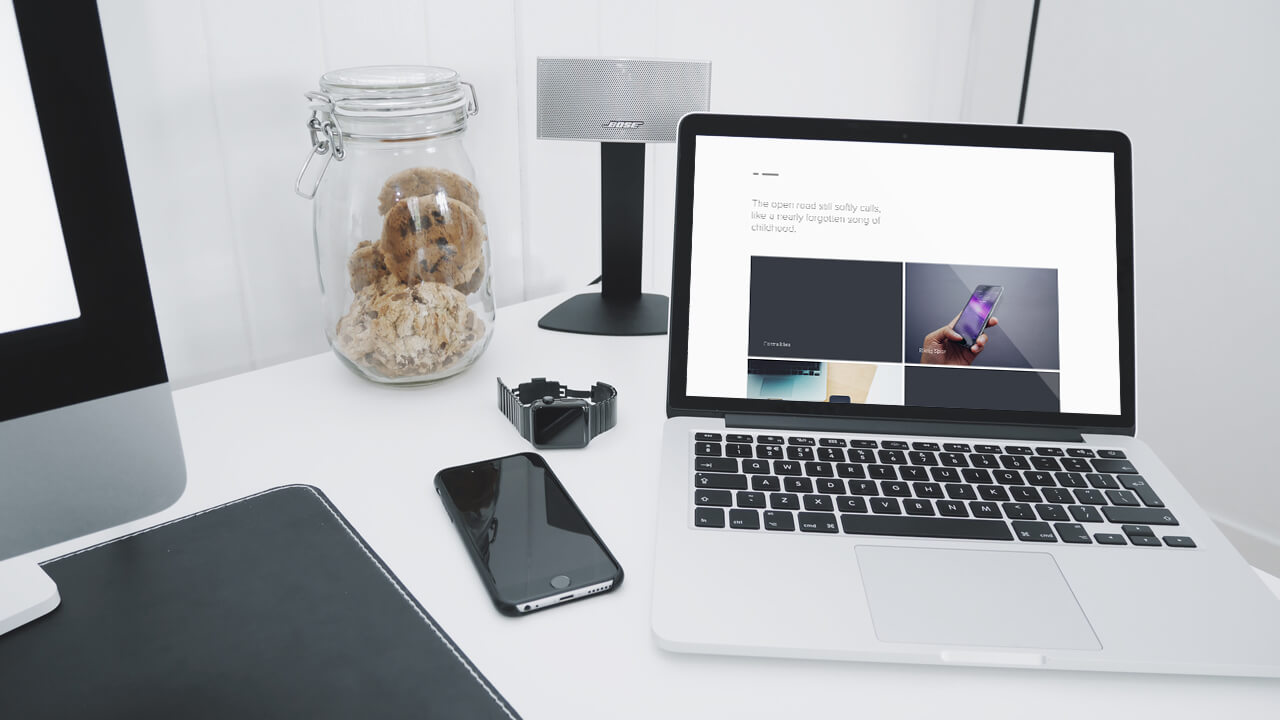
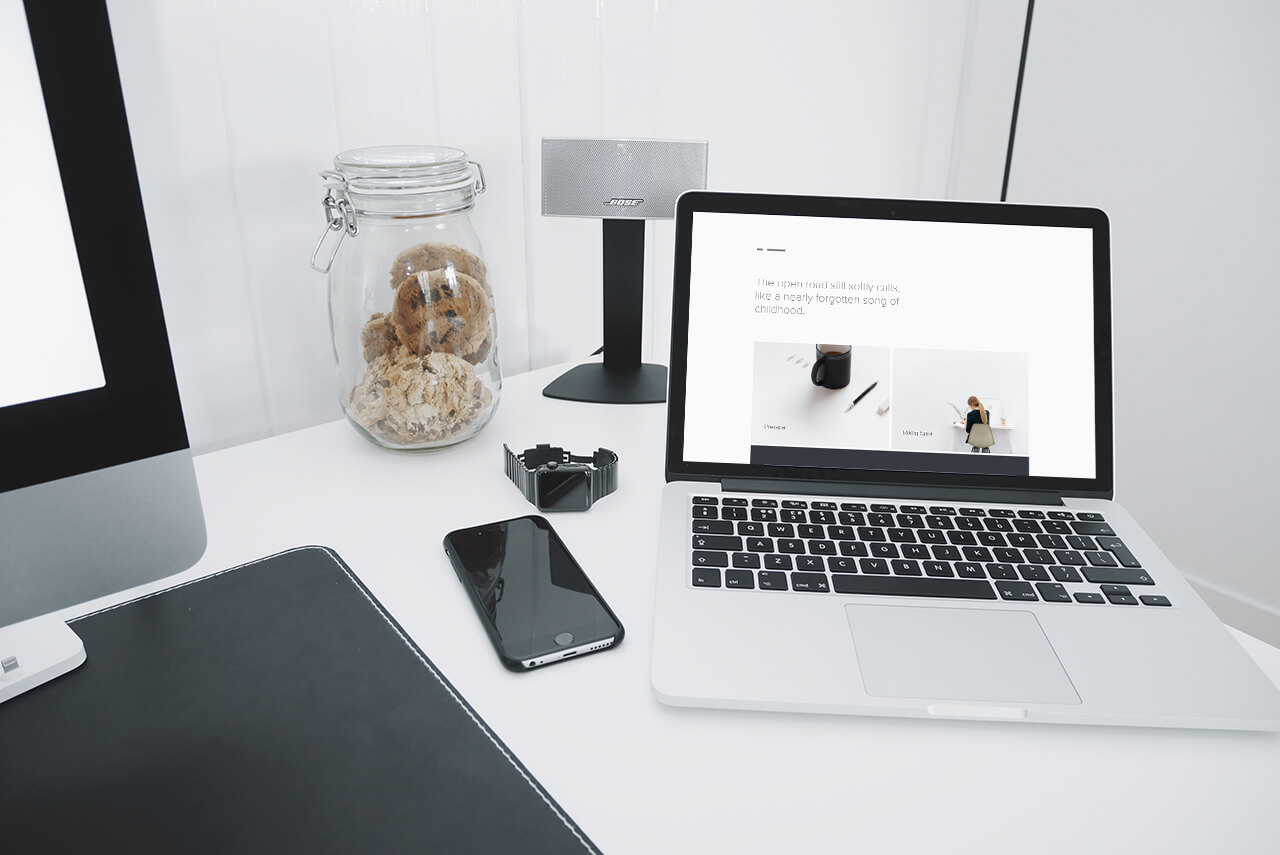
updated images in portfolio section

diff --git a/_site/portfolio/index.html b/_site/portfolio/index.html
@@ -1,1 +1,1 @@
-<!DOCTYPE html> <html lang="en" prefix="og: http://ogp.me/ns#"> <head> <meta charset="UTF-8"> <title>Portfolio</title> <meta name="description" content="The thoughts and work of Magnus Skare." /> <meta content="website" property="og:type" /> <meta content="Portfolio" property="og:site_name"> <meta content="/portfolio/" property="og:url"> <meta content="/img/show/3.jpg" property="og:image" /> <meta name="viewport" content="width=device-width, initial-scale=1" /> <link rel="shortcut icon" href="/img/assets/favicon.ico"> <link rel="canonical" href="/portfolio/" /> <script src="https://use.typekit.net/smz0fdf.js"></script> <script>try{Typekit.load({ async: true });}catch(e){}</script> <link rel="stylesheet" href="/css/main.css" /> <!-- Include analytics here --> </head> <body> <svg display=none width=0 height=0> <defs> <symbol id="icon-chevron-thin-right" viewBox="0 0 1024 1024"> <path class="path1" d="M678.4 512l-365.619-379.904c-13.722-13.824-13.722-36.198 0-50.125 13.722-13.824 35.891-13.824 49.613 0l400.896 404.89c13.722 13.875 13.722 36.301 0 50.125l-400.896 404.89c-13.722 13.875-35.891 13.824-49.613 0-13.722-13.773-13.722-36.198 0-50.125l365.619-379.75z"></path> </symbol> <symbol id="icon-chevron-thin-left" viewBox="0 0 1024 1024"> <path class="path1" d="M711.219 891.802c13.722 13.926 13.722 36.301 0 50.125s-35.891 13.875-49.613 0l-400.896-404.89c-13.722-13.824-13.722-36.198 0-50.125l400.896-404.89c13.722-13.824 35.891-13.824 49.613 0 13.722 13.875 13.722 36.301 0 50.125l-365.619 379.853 365.619 379.802z"></path> </symbol> </defs> </svg> <div class="wrapper"> <nav class="nav"> <ul class="nav-list" > <li class="nav-icon"> <a class="shift" href="/">Magnus Skare</a> </li> </ul> </nav> <header class="page-header"> <h1 class="page-header-text up">Portfolio</h1> <h2 class="page-header-subtext up wait"> 6 min read</h2> </header> <article class=" article"> <img src="../img/portfolio/img1.jpg" alt="Portfolio" class="fade wait"> <div class="div"></div> <p class="lead pull"><a href="http://magnusskare.science/uni-website/" target="_blank">Last semester</a> I thought I had a love&ndash;hate relationship with designing things for myself. This semester, I can confirm it, but I can also confirm the importance of "good enough" and releasing a minimum viable product (MVP).<span>In product development, the MVP is the product with the highest return on investment versus risk.</span></p> <p>I should mention the feedback from my previous two years in order to justify where we stand today. My <a href="https://magnuss.carbonmade.com/" target="_blank">first university portfolio</a> was too brief, with lacking depth and a solid foundation.</p> <p>My <a href="http://magnusskare.science/uni/" target="_blank">second university portfolio</a> took this into account, but perhaps too eagerly. I believe the exact feedback was “excellent, but impenetrable”. Justified, and my fear of seeming too shallow with my work disregarded the end user completely — and while it did not affect my final mark much, I hope to keep this in mind this time.</p> <div class="div"></div> <img class="browser" src="../img/portfolio/show.png" alt="Current portfolio version"> <div class="div"></div> <h2 id="problem--solution">Problem &amp; solution</h2> <p>Once again, a portfolio may come across as disjointed when you present a wider range of styles throughout your work. Therefore, I still aim to present a rather blank canvas to work on as a primary solution to this, giving every project the attention it deserves without conflicting styles surrounding it. You should see the <a href="/workflow-and-sketchbook">workflow &amp; sketchbook</a>-section if you’re interested in how I work, solve problems and essentially get from A to B.</p> <p>Echoing my thoughts from last year, I still find typography to be the most important part of the web.</p> <div class="div"></div> <img src="../img/portfolio/img2.png" alt="Proxima Nova typeface" class="entry"> <div class="div"></div> <p>We source our typography from <a href="http://typekit.com" target="_blank">Typekit</a>, using different weights of Proxima Nova to satisfy our needs. It’s a popular typeface, ideal for multiple purposes like headings and paragraphs. Proxima Nova is clean, neautral and fit for a purpose where the images seek attention.</p> <p>The site offers roughly 60-80 characters per line, presenting a comfortable reading experience on most modern devices. I also found it important to not disable zoom or any other default behaviour, as my research on reading-experience may not apply to everybody.</p> <div class="div"></div> <img class="browser" src="../img/portfolio/11.png" alt="Current portfolio version"> <div class="div"></div> <h2 id="speed--performance">Speed &amp; performance</h2> <p class="pull">I care about performance. In fact, I am writing my dissertation on performance and accessibility. That's why I built this site with Jekyll to avoid database requests completely.<span>Jekyll is a static site generator, and will by nature be faster than PHP-based solutions</span></p> <p>Jekyll is a static site generator and will serve static HTML-files for the end user. The site is generated locally, so we can still benefit from PHP-like includes for our footer and header — this means we avoid the pain of writing static HTML over and over again. It also makes updates easier.</p> <p>Everything else goes without saying, but should be mentioned anyway: asset compression (JS, CSS, HTML), image compression, limit HTTP requests and third party resources. This should leave us within a reasonable performance-budget of 2 second load time on our initial request and &gt;.5 seconds on second load.</p> <div class="div"></div> <img src="../img/portfolio/code.png" alt="Code editor"> <div class="div"></div> <h2 id="maintainability--technology">Maintainability &amp; technology</h2> <p class="pull">Without getting too technical, I can mention that the site is not very client-friendly. <a href="http://jekyllrb.com/" target="_blank">Jekyll</a> in itself runs on Ruby, which is installed via Node and NPM. That's already a bit too much for most clients.<span>View the code behind this site on <a href="https://github.com/partcoffee/uni" target="_blank">GitHub</a></span></p> <p>However, this is not a client website, and the lack of a content management system gives me more control as a developer. All my content is written in Markdown, which is a simple language and saves you hours of work in the long run, compared to writing HTML.</p> <p>I have made my life easier by listing projects in a data-folder, where a loop can access it and generate our homepage. I still code in <a href="http://sass-lang.com/" target="_blank">Sass</a> to benefit from variables and functions in CSS, but I moved on to <a href="http://gulpjs.com/" target="_blank">Gulp</a> to speed up my workflow. However, GitHub Pages will only support a naked Jekyll build, and thus this site may have been generated with the default generator.</p> <p>The source-code is <a href="https://github.com/partcoffee/uni" target="_blank">available on GitHub</a>, which will show the raw files I work with. You can also see how the code works in the <a href="https://github.com/partcoffee/uni/blob/master/css/main.scss" target="_blank">main scss-file</a>, which extends to all the <a href="https://github.com/partcoffee/uni/tree/master/_sass" target="_blank">included scss-files</a> and <a href="https://github.com/partcoffee/uni/blob/master/js/main.js" target="_blank">main JavaScript file</a>. If you are a developer, I strongly encourage you to clone to repo or read through it on GitHub. This gives me the option to refer to specific code samples and annotate them accordingly to satisfy the assessment sheet.</p> <div class="div"></div> <h2 id="alternative-approach">Alternative approach</h2> <p class="pull">This site was certainly not the plan all along, and I did have several different approaches in mind. I have been experimenting with cover-pages, one-page layouts and similar design propositions to this one. However, subjectively and based on colleague feedback, this seemed to be the best approach to highlight all my work in a structured and efficient manner. The blank canvas should give each project the attention it deserves, while simutanously giving me the freedom to be as brief or as thorough as I have to.<span>The <a href="/workflow-and-sketchbook">workflow &amp; sketchbook</a>-section highlights how I work</span></p> <p>An outside point of view was crucial for the process, as looking at the same homepage layout every day can get tedious and boring – tempting me to change the layout or colours based solely on boredom. A specific example was the use of solid colours over images, illustrated in the screenshot below, but the feedback for images was overwhelmingly posivitive in comparison.</p> <p>I have included some different approaches as screenshots, but live examples are available upon request. You can see more examples under <a href="/secondary">secondary work</a>. These are all fully responsive and should function well in all modern browsers.</p> <div class="div"></div> <img src="../img/portfolio/colour.png" alt="Previous portfolio version" class="free-height browser"> <img src="../img/portfolio/5.png" alt="Previous portfolio version"> <img src="../img/portfolio/6.png" alt="Previous portfolio version"> <!-- <img class="browser" src="../img/portfolio/1.png" alt="Previous portfolio version"> --> <!-- <img src="../img/portfolio/9.png" alt="Current portfolio version"> --> <div class="div"></div> <h2 id="reflection--conclusion">Reflection &amp; conclusion</h2> <p>I hopefully improved upon the <a href="http://magnusskare.science/uni/" target="_blank">previous university portfolio</a> by keeping user experience in mind from the very beginning. By developing a dedicated site for my university projects, I could tailor the site to a very specific group of people — and as I’m aware of their feedback from previous projects along with the assessment sheet, it was easy to know what to include and what to leave out.</p> <p>I hope this site is able to reflect the amount of work and effort I have put into this semester.</p> <div class="div"></div> <p class="mid"> <a href="/" class="button shift"> <svg class="icon icon-chevron-thin-left"> <use xlink:href="#icon-chevron-thin-left"></use> </svg> Back to home </a> </p> </article> <footer class="footer"> <ul class="footer-list"> <li class="footer-links"> <a href="https://twitter.com/MagnusSkare">Twitter</a> </li> <li class="footer-links"> <a href="https://dribbble.com/PartCoffee/">Dribbble</a> </li> <li class="footer-links"> <a href="https://github.com/partcoffee/">GithHub</a> </li> <li class="footer-links"> <a href="https://instagram.com/magnusskare/">Instagram</a> </li> <li class="footer-links"> <a href="/">Powered by coffee and love</a> </li> </ul> </footer> <script src="https://ajax.googleapis.com/ajax/libs/jquery/1/jquery.min.js"></script> <script src='/js/main.js'></script> <!--[if lt IE 9]> <style>#ie-upgrade{background:#FFF;bottom:0;display:table;height:100%;left:0;position:fixed;right:0;top:0;width:100%;z-index:9000;}#ie-only{margin-bottom: 0;}.ie-message{display:table-cell;text-align:center;vertical-align:middle;padding: 0 20%;}.ie-message p{max-width:500px;margin:20px auto 30px;}#ie-upgrade .button{background:#555;color:#FFF;padding:14px 28px 12px;}</style> <div id="ie-upgrade"> <div class="ie-message"> <h1>Hello Internet Explorer user</h1> <p>Your current Internet browser is being outphased, and is too old to display this page correctly. Please consider upgrading your browser, or downloading <a href="https://www.google.com/chrome/">a modern alternative</a>.</p> <a href="#" id="ie-only" class="button">Continue anyway</a> </div> </div> <script> $('#ie-only').on('click', function() { $('#ie-upgrade').css('display', 'none'); }); </script> <![endif]--> </div> </body> </html>
+<!DOCTYPE html> <html lang="en" prefix="og: http://ogp.me/ns#"> <head> <meta charset="UTF-8"> <title>Portfolio</title> <meta name="description" content="The thoughts and work of Magnus Skare." /> <meta content="website" property="og:type" /> <meta content="Portfolio" property="og:site_name"> <meta content="/portfolio/" property="og:url"> <meta content="/img/show/3.jpg" property="og:image" /> <meta name="viewport" content="width=device-width, initial-scale=1" /> <link rel="shortcut icon" href="/img/assets/favicon.ico"> <link rel="canonical" href="/portfolio/" /> <script src="https://use.typekit.net/smz0fdf.js"></script> <script>try{Typekit.load({ async: true });}catch(e){}</script> <link rel="stylesheet" href="/css/main.css" /> <!-- Include analytics here --> </head> <body> <svg display=none width=0 height=0> <defs> <symbol id="icon-chevron-thin-right" viewBox="0 0 1024 1024"> <path class="path1" d="M678.4 512l-365.619-379.904c-13.722-13.824-13.722-36.198 0-50.125 13.722-13.824 35.891-13.824 49.613 0l400.896 404.89c13.722 13.875 13.722 36.301 0 50.125l-400.896 404.89c-13.722 13.875-35.891 13.824-49.613 0-13.722-13.773-13.722-36.198 0-50.125l365.619-379.75z"></path> </symbol> <symbol id="icon-chevron-thin-left" viewBox="0 0 1024 1024"> <path class="path1" d="M711.219 891.802c13.722 13.926 13.722 36.301 0 50.125s-35.891 13.875-49.613 0l-400.896-404.89c-13.722-13.824-13.722-36.198 0-50.125l400.896-404.89c13.722-13.824 35.891-13.824 49.613 0 13.722 13.875 13.722 36.301 0 50.125l-365.619 379.853 365.619 379.802z"></path> </symbol> </defs> </svg> <div class="wrapper"> <nav class="nav"> <ul class="nav-list" > <li class="nav-icon"> <a class="shift" href="/">Magnus Skare</a> </li> </ul> </nav> <header class="page-header"> <h1 class="page-header-text up">Portfolio</h1> <h2 class="page-header-subtext up wait"> 6 min read</h2> </header> <article class=" article"> <img src="../img/portfolio/img1.jpg" alt="Portfolio" class="fade wait"> <div class="div"></div> <p class="lead pull"><a href="http://magnusskare.science/uni-website/" target="_blank">Last semester</a> I thought I had a love&ndash;hate relationship with designing things for myself. This semester, I can confirm it, but I can also confirm the importance of "good enough" and releasing a minimum viable product (MVP).<span>In product development, the MVP is the product with the highest return on investment versus risk.</span></p> <p>I should mention the feedback from my previous two years in order to justify where we stand today. My <a href="https://magnuss.carbonmade.com/" target="_blank">first university portfolio</a> was too brief, with lacking depth and a solid foundation.</p> <p>My <a href="http://magnusskare.science/uni/" target="_blank">second university portfolio</a> took this into account, but perhaps too eagerly. I believe the exact feedback was “excellent, but impenetrable”. Justified, and my fear of seeming too shallow with my work disregarded the end user completely — and while it did not affect my final mark much, I hope to keep this in mind this time.</p> <div class="div"></div> <img class="browser tall" src="../img/portfolio/show.png" alt="Current portfolio version"> <div class="div"></div> <h2 id="problem--solution">Problem &amp; solution</h2> <p>Once again, a portfolio may come across as disjointed when you present a wider range of styles throughout your work. Therefore, I still aim to present a rather blank canvas to work on as a primary solution to this, giving every project the attention it deserves without conflicting styles surrounding it. You should see the <a href="/workflow-and-sketchbook">workflow &amp; sketchbook</a>-section if you’re interested in how I work, solve problems and essentially get from A to B.</p> <p>Echoing my thoughts from last year, I still find typography to be the most important part of the web.</p> <div class="div"></div> <img src="../img/portfolio/img2.png" alt="Proxima Nova typeface" class="entry"> <div class="div"></div> <p>We source our typography from <a href="http://typekit.com" target="_blank">Typekit</a>, using different weights of Proxima Nova to satisfy our needs. It’s a popular typeface, ideal for multiple purposes like headings and paragraphs. Proxima Nova is clean, neautral and fit for a purpose where the images seek attention.</p> <p>The site offers roughly 60-80 characters per line, presenting a comfortable reading experience on most modern devices. I also found it important to not disable zoom or any other default behaviour, as my research on reading-experience may not apply to everybody.</p> <div class="div"></div> <img class="browser" src="../img/portfolio/11.png" alt="Current portfolio version"> <div class="div"></div> <h2 id="speed--performance">Speed &amp; performance</h2> <p class="pull">I care about performance. In fact, I am writing my dissertation on performance and accessibility. That's why I built this site with Jekyll to avoid database requests completely.<span>Jekyll is a static site generator, and will by nature be faster than PHP-based solutions</span></p> <p>Jekyll is a static site generator and will serve static HTML-files for the end user. The site is generated locally, so we can still benefit from PHP-like includes for our footer and header — this means we avoid the pain of writing static HTML over and over again. It also makes updates easier.</p> <p>Everything else goes without saying, but should be mentioned anyway: asset compression (JS, CSS, HTML), image compression, limit HTTP requests and third party resources. This should leave us within a reasonable performance-budget of 2 second load time on our initial request and &gt;.5 seconds on second load.</p> <div class="div"></div> <img src="../img/portfolio/code.png" alt="Code editor"> <div class="div"></div> <h2 id="maintainability--technology">Maintainability &amp; technology</h2> <p class="pull">Without getting too technical, I can mention that the site is not very client-friendly. <a href="http://jekyllrb.com/" target="_blank">Jekyll</a> in itself runs on Ruby, which is installed via Node and NPM. That's already a bit too much for most clients.<span>View the code behind this site on <a href="https://github.com/partcoffee/uni" target="_blank">GitHub</a></span></p> <p>However, this is not a client website, and the lack of a content management system gives me more control as a developer. All my content is written in Markdown, which is a simple language and saves you hours of work in the long run, compared to writing HTML.</p> <p>I have made my life easier by listing projects in a data-folder, where a loop can access it and generate our homepage. I still code in <a href="http://sass-lang.com/" target="_blank">Sass</a> to benefit from variables and functions in CSS, but I moved on to <a href="http://gulpjs.com/" target="_blank">Gulp</a> to speed up my workflow. However, GitHub Pages will only support a naked Jekyll build, and thus this site may have been generated with the default generator.</p> <p>The source-code is <a href="https://github.com/partcoffee/uni" target="_blank">available on GitHub</a>, which will show the raw files I work with. You can also see how the code works in the <a href="https://github.com/partcoffee/uni/blob/master/css/main.scss" target="_blank">main scss-file</a>, which extends to all the <a href="https://github.com/partcoffee/uni/tree/master/_sass" target="_blank">included scss-files</a> and <a href="https://github.com/partcoffee/uni/blob/master/js/main.js" target="_blank">main JavaScript file</a>. If you are a developer, I strongly encourage you to clone to repo or read through it on GitHub. This gives me the option to refer to specific code samples and annotate them accordingly to satisfy the assessment sheet.</p> <div class="div"></div> <h2 id="alternative-approach">Alternative approach</h2> <p class="pull">This site was certainly not the plan all along, and I did have several different approaches in mind. I have been experimenting with cover-pages, one-page layouts and similar design propositions to this one. However, subjectively and based on colleague feedback, this seemed to be the best approach to highlight all my work in a structured and efficient manner. The blank canvas should give each project the attention it deserves, while simutanously giving me the freedom to be as brief or as thorough as I have to.<span>The <a href="/workflow-and-sketchbook">workflow &amp; sketchbook</a>-section highlights how I work</span></p> <p>An outside point of view was crucial for the process, as looking at the same homepage layout every day can get tedious and boring – tempting me to change the layout or colours based solely on boredom. A specific example was the use of solid colours over images, illustrated in the screenshot below, but the feedback for images was overwhelmingly posivitive in comparison.</p> <p>I have included some different approaches as screenshots, but live examples are available upon request. You can see more examples under <a href="/secondary">secondary work</a>. These are all fully responsive and should function well in all modern browsers.</p> <div class="div"></div> <img src="../img/portfolio/colour.png" alt="Previous portfolio version" class="free-height browser"> <img src="../img/portfolio/5.png" alt="Previous portfolio version"> <img src="../img/portfolio/6.png" alt="Previous portfolio version"> <!-- <img class="browser" src="../img/portfolio/1.png" alt="Previous portfolio version"> --> <!-- <img src="../img/portfolio/9.png" alt="Current portfolio version"> --> <div class="div"></div> <h2 id="reflection--conclusion">Reflection &amp; conclusion</h2> <p>I hopefully improved upon the <a href="http://magnusskare.science/uni/" target="_blank">previous university portfolio</a> by keeping user experience in mind from the very beginning. By developing a dedicated site for my university projects, I could tailor the site to a very specific group of people — and as I’m aware of their feedback from previous projects along with the assessment sheet, it was easy to know what to include and what to leave out.</p> <p>I hope this site is able to reflect the amount of work and effort I have put into this semester.</p> <div class="div"></div> <p class="mid"> <a href="/" class="button shift"> <svg class="icon icon-chevron-thin-left"> <use xlink:href="#icon-chevron-thin-left"></use> </svg> Back to home </a> </p> </article> <footer class="footer"> <ul class="footer-list"> <li class="footer-links"> <a href="https://twitter.com/MagnusSkare">Twitter</a> </li> <li class="footer-links"> <a href="https://dribbble.com/PartCoffee/">Dribbble</a> </li> <li class="footer-links"> <a href="https://github.com/partcoffee/">GithHub</a> </li> <li class="footer-links"> <a href="https://instagram.com/magnusskare/">Instagram</a> </li> <li class="footer-links"> <a href="/">Powered by coffee and love</a> </li> </ul> </footer> <script src="https://ajax.googleapis.com/ajax/libs/jquery/1/jquery.min.js"></script> <script src='/js/main.js'></script> <!--[if lt IE 9]> <style>#ie-upgrade{background:#FFF;bottom:0;display:table;height:100%;left:0;position:fixed;right:0;top:0;width:100%;z-index:9000;}#ie-only{margin-bottom: 0;}.ie-message{display:table-cell;text-align:center;vertical-align:middle;padding: 0 20%;}.ie-message p{max-width:500px;margin:20px auto 30px;}#ie-upgrade .button{background:#555;color:#FFF;padding:14px 28px 12px;}</style> <div id="ie-upgrade"> <div class="ie-message"> <h1>Hello Internet Explorer user</h1> <p>Your current Internet browser is being outphased, and is too old to display this page correctly. Please consider upgrading your browser, or downloading <a href="https://www.google.com/chrome/">a modern alternative</a>.</p> <a href="#" id="ie-only" class="button">Continue anyway</a> </div> </div> <script> $('#ie-only').on('click', function() { $('#ie-upgrade').css('display', 'none'); }); </script> <![endif]--> </div> </body> </html>

diff --git a/_case/portfolio.md b/_case/portfolio.md
@@ -23,7 +23,7 @@ My <a href="http://magnusskare.science/uni/" target="_blank">second university p
 <div class="div"></div>
 
 {::nomarkdown}
-<img class="browser" src="../img/portfolio/show.png" alt="Current portfolio version">
+<img class="browser tall" src="../img/portfolio/show.png" alt="Current portfolio version">
 {:/}
 
 <div class="div"></div>
